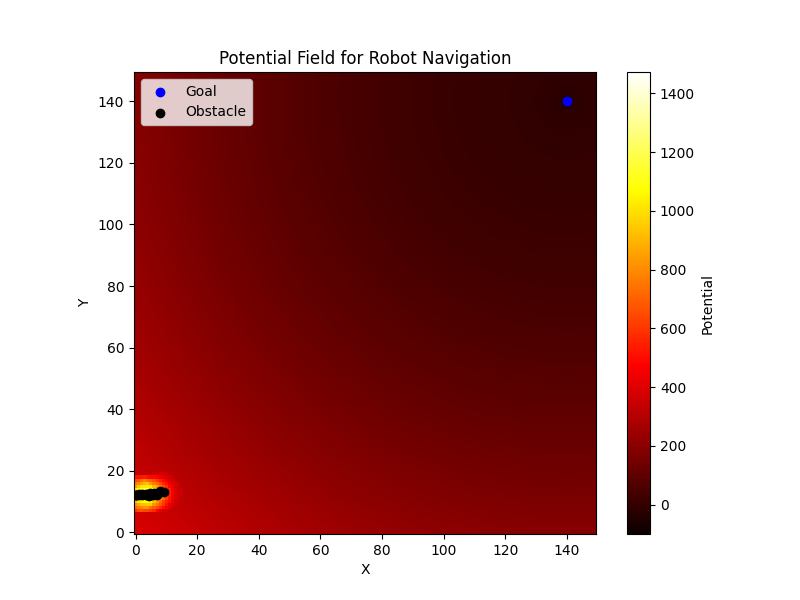
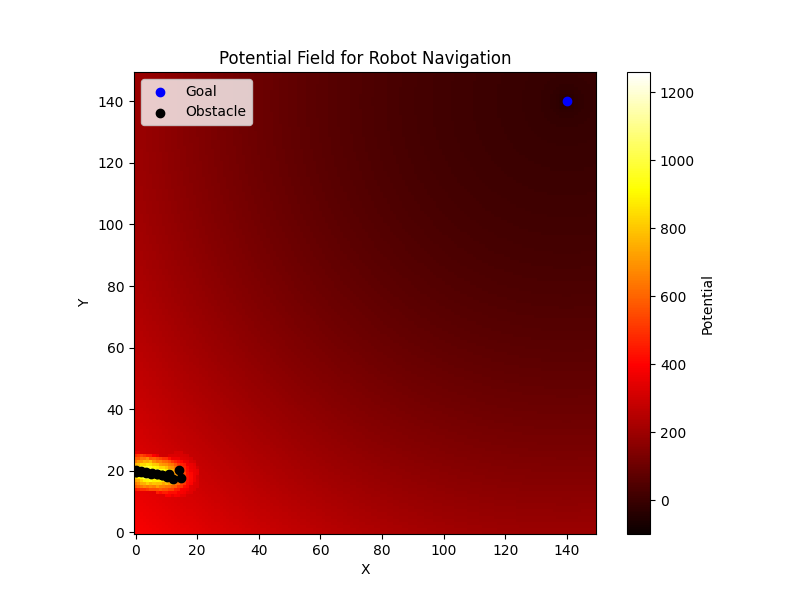
Finally the pi is hopefully fixed!

diff --git a/HeatMapCode.py b/HeatMapCode.py
@@ -21,21 +21,10 @@ def scanned_points(scanned_data, goal, width, height):
         y, x = polar_to_cartesian(angle, distance)
         coordinates = (y, x)
         if coordinates != goal and (0 <= y < width and 0 <= x < height):
-            obstacles.append(coordinates)
-            #obstacles.append((coordinates, angle))
+            obstacles.append((coordinates, angle))
 
     return obstacles
-'''
-def robot_to_lab(data):
-    coordinates, angle = data
-    y, x = coordinates
-    theta = math.radians(angle)
 
-    x2 = x*math.cos(theta) + y*math.sin(theta)
-    y2 = -x*math.sin(theta) + y*math.cos(theta)
-
-    return (y2, x2)
-'''
 def add_attractive_potential(grid, goal, strength=100):
     for y in range(grid.shape[0]):
         for x in range(grid.shape[1]):
@@ -65,17 +54,15 @@ def generate_heatmap():
 
     # Scan for obstacles
     data = scan()
-    obstacles = scanned_points(data, goal, width, height)
+    obstacles_data = scanned_points(data, goal, width, height) # All the data including the angle so (y,x) and the angle
+    obstacles = [obstacle[0] for obstacle in obstacles_data] 
     if not obstacles:
         print("No obstacles found")
         return
 
-    #obstacles_lab_coordinates = [robot_to_lab(data) for data in obstacles]
-    #print(f"Obstacles_lab_coordinates: {obstacles_lab_coordinates}")
     # Apply potentials
     heatmap = add_attractive_potential(heatmap, goal)
     heatmap = add_repulsive_potentials(heatmap, obstacles)
-    #heatmap = add_repulsive_potentials(heatmap, obstacles_lab_coordinates)
 
     # Plot the heatmap
     plt.figure(figsize=(8, 6))
@@ -83,9 +70,7 @@ def generate_heatmap():
     plt.colorbar(label='Potential')
     plt.scatter(goal[0], goal[1], c='blue', label='Goal')
     for oy, ox in obstacles:
-    #for oy, ox in obstacles_lab_coordinates:
         plt.scatter(ox, oy, c='black', label='Obstacle' if (oy, ox) == obstacles[0] else "")
-        #plt.scatter(ox, oy, c='black', label='Obstacle' if (oy, ox) == obstacles_lab_coordinates[0] else "")
     plt.legend()
     plt.title("Potential Field for Robot Navigation")
     plt.xlabel("X")
@@ -95,3 +80,5 @@ def generate_heatmap():
     plt.savefig(plot_path)
     print(f"Plot saved as {plot_path}")
     plt.show()
+
+    #return obstacles_data

diff --git a/Project03.py b/Project03.py
@@ -1,1 +1,31 @@
-from HeatMapCode import scanned_points
+from HeatMapCode import generate_heatmap
+from Motor import *
+import math
+
+# Function to change the coordinates from robot frame to lab frame
+def robot_to_lab(data):
+    coordinates, angle = data
+    y, x = coordinates
+    theta = math.radians(angle)
+
+    x2 = x*math.cos(theta) + y*math.sin(theta)
+    y2 = -x*math.sin(theta) + y*math.cos(theta)
+
+    return (y2, x2)
+
+def navigation():
+    # Step 1: Have the robot pointing in the postive x-axis 
+    # in the lab frame so that the robot frame is the same.
+    # Then the robot will scan in its range for objects.
+    obstacles_data = generate_heatmap()
+
+    # If you did not find any obstacles move forward freely
+    if not obstacles_data:
+        setup()
+        motor(50)
+        destroy()
+    else:
+        obstacles_lab_coordinates = [robot_to_lab(data) for data in obstacles_data]
+        print(f"Obstacles_lab_coordinates: {obstacles_lab_coordinates}")
+    
+

diff --git a/Scanning.py b/Scanning.py
@@ -65,7 +65,7 @@ def scan():
             if distance < 50: #Range limit
                 scan_data.append((start_angle, distance))
             print(f"{start_angle} degrees: {distance:.2f} cm")
-            sleep(0.1) # Small delay for stability
+            #sleep(0.05) # Small delay for stability
 
             for angle_list in [anticlockwise_angles, reversed(anticlockwise_angles[:-1]), clockwise_angles, reversed(clockwise_angles[:-1])]:
                 for angle in angle_list:
@@ -74,7 +74,7 @@ def scan():
                     if distance < 50: # Range limit
                         scan_data.append((angle, distance))
                     print(f"{angle} degrees: {distance:.2f} cm")
-                    sleep(0.1) # Small delay for stability
+                    #sleep(0.05) # Small delay for stability
 
             first_pass = False
             filtered_real_data = real_data(scan_data)

diff --git a/Motor.py b/Motor.py
@@ -36,12 +36,13 @@ def motor(speed):
     motor1.forward()
     motor2.forward()
     p1.value = speed / 100  # Convert Speed (0-100) to 0-1 range
-    p2.value = (speed / 100) - 0.012
+    p2.value = (speed / 100)
 
     sleep(3)
     p1.off()
     p2.off()
 
+    '''
     motor1.backward()
     motor2.backward()
     p1.value = (speed / 100) - 0.012  # Convert Speed (0-100) to 0-1 range
@@ -50,6 +51,7 @@ def motor(speed):
     sleep(3)
     p1.off()
     p2.off()
+    '''
 
 
 def destroy():
@@ -58,7 +60,7 @@ def destroy():
     motor1.stop()
     motor2.stop()
 
-
+'''
 if __name__ == "__main__":
     setup()
     motor(50)
@@ -68,3 +70,4 @@ if __name__ == "__main__":
     #print("Right tank turn 45 degrees")
     #turn(duty_cycle_left=0.5, duty_cycle_right=0, direction=-angle-0.45)
     destroy()
+'''

diff --git a/Main.py b/Main.py
@@ -1,6 +1,8 @@
+#from Project03 import navigation
 from HeatMapCode import generate_heatmap
 
 if __name__ == "__main__":
     print("Program is starting...")
+    #navigation()
     generate_heatmap()
     
